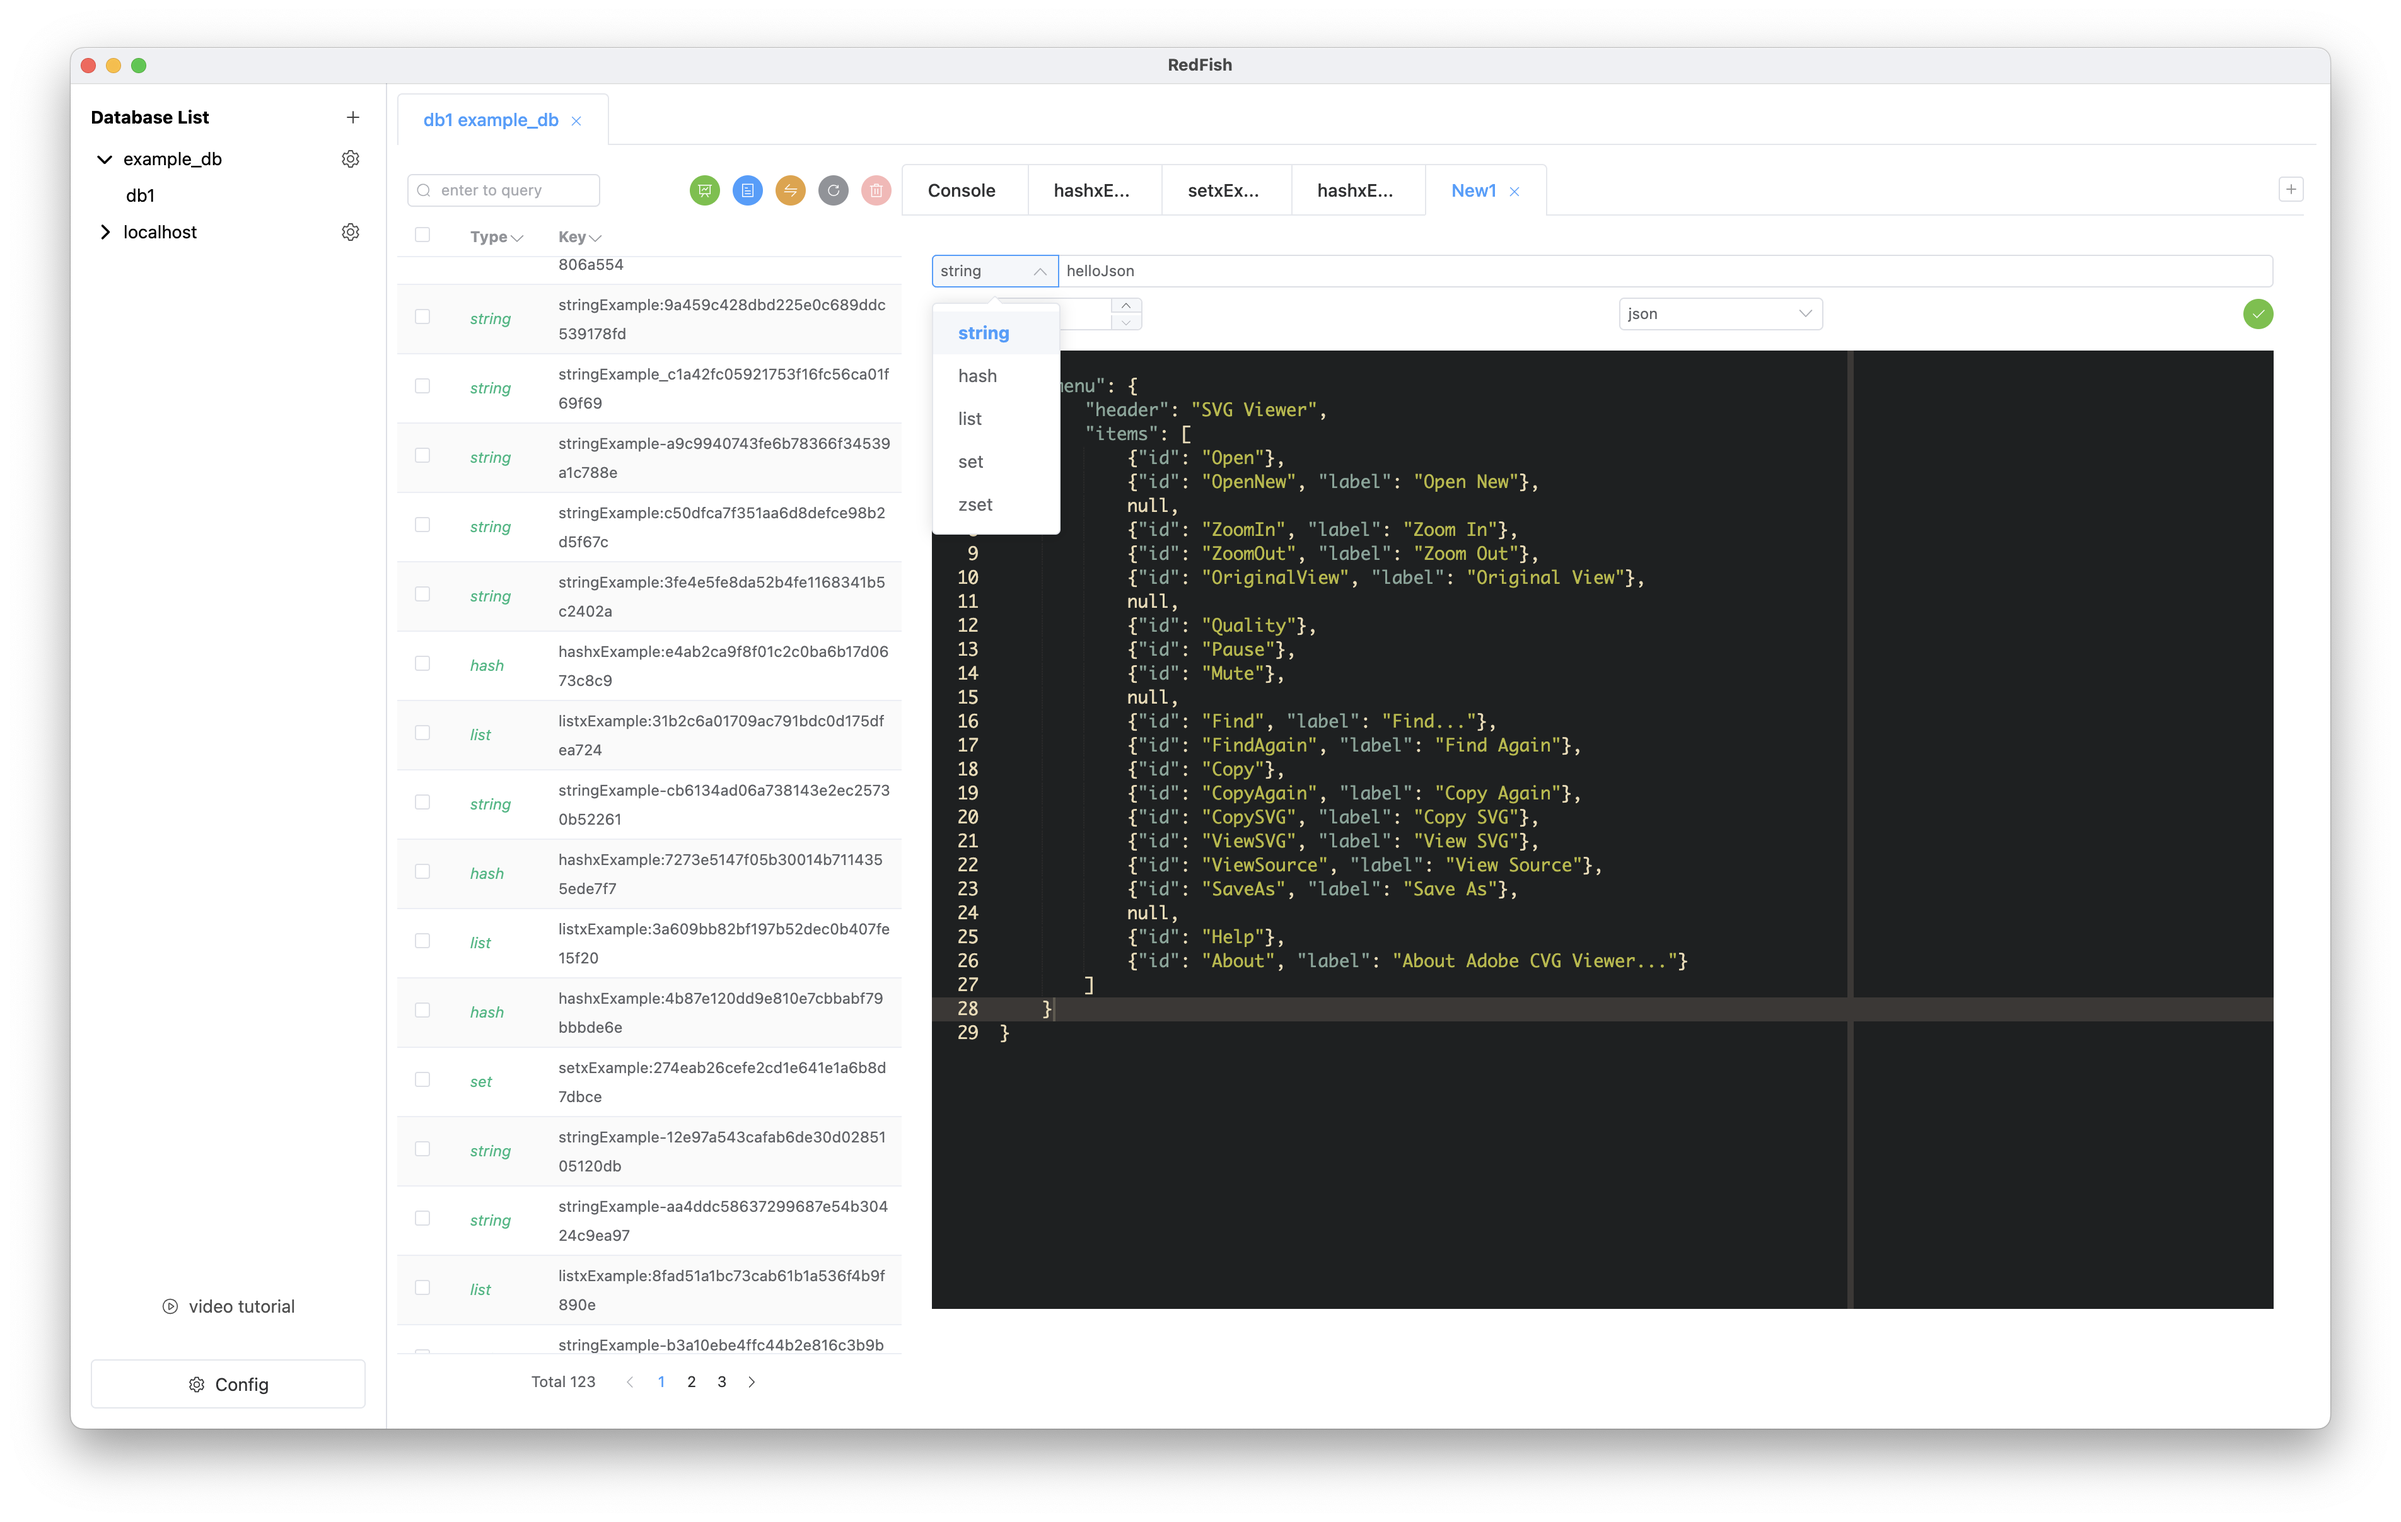
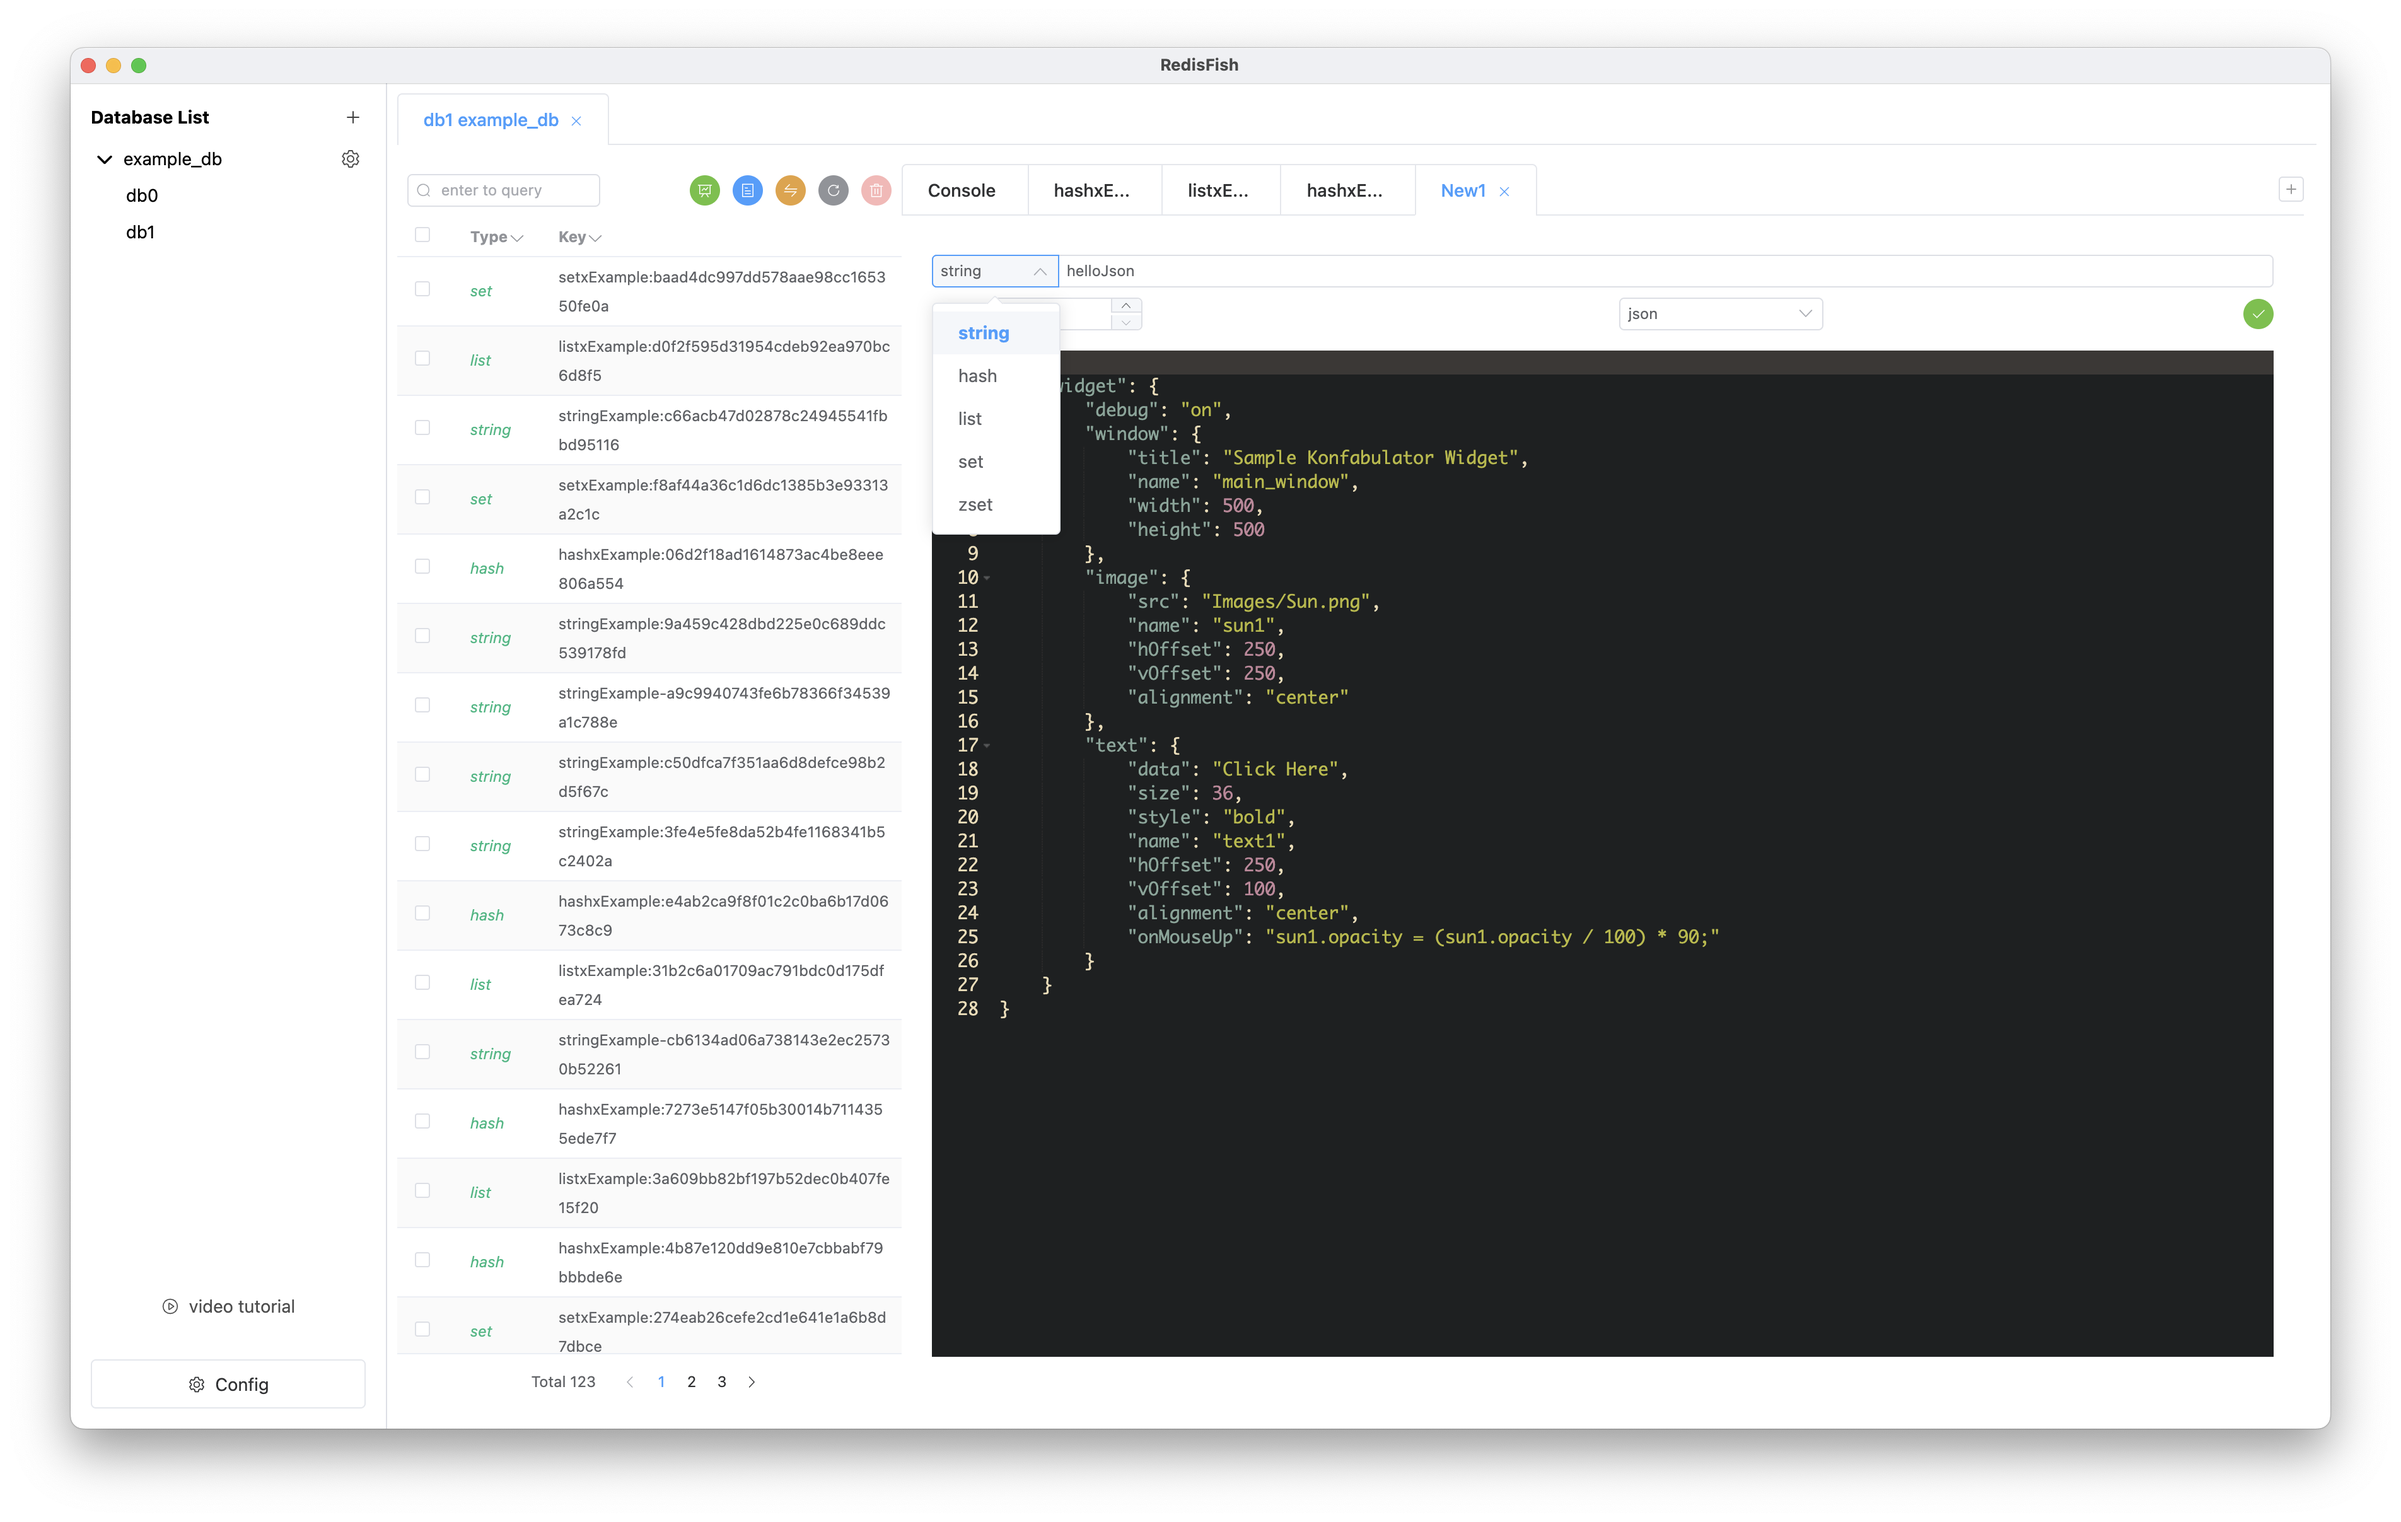
Update name, documentation, etc.

Changed region(s): [[0.1875, 0.1553, 0.9688, 0.901]]

diff --git a/src/views/keyMenu/group.vue b/src/views/keyMenu/group.vue
@@ -104,7 +104,7 @@
     </el-dialog>
 
     <!-- history log -->
-    <el-dialog v-model="dialogState.logShow" :title="t('keyMenu.delDialog.title')" width="60%" center top="10vh">
+    <el-dialog v-model="dialogState.logShow" :title="t('keyMenu.logDialog.title')" width="60%" center top="10vh">
       <history-log :server-tab="props.serverTab" v-if="dialogState.logShow" />
     </el-dialog>
   </div>
@@ -230,13 +230,15 @@ const handleGroupKeys = async (keys: string[]) => {
     }
   }
 
-  state.keysList.push({
-    label: 'other',
-    value: state.keysList.length,
-    count: otherGroupChildren.length,
-    isKey: false,
-    children: otherGroupChildren
-  })
+  if (otherGroupChildren.length) {
+    state.keysList.push({
+      label: 'other',
+      value: state.keysList.length,
+      count: otherGroupChildren.length,
+      isKey: false,
+      children: otherGroupChildren
+    })
+  }
 }
 const fetchData = async () => {
   await changeLoading(true)

diff --git a/vue.config.js b/vue.config.js
@@ -17,15 +17,15 @@ module.exports = {
       nodeIntegration: true,
       disableMainProcessTypescript: false,
       mainProcessTypeChecking: false,
-      productName: 'RedFish',
-      appId: 'com.kuari.RedFish',
+      productName: 'RedisFish',
+      appId: 'com.kuari.RedisFish',
       copyright: '© Kuari 2022',
       afterSign: 'build/notarize.js',
       publish: [
         {
           provider: 'github',
           owner: 'Kuari',
-          repo: 'RedFish',
+          repo: 'RedisFish',
           releaseType: 'draft'
         }
       ],
@@ -38,7 +38,7 @@ module.exports = {
         installerHeaderIcon: 'build/icon.ico',
         createDesktopShortcut: true,
         createStartMenuShortcut: true,
-        shortcutName: 'RedFish'
+        shortcutName: 'RedisFish'
       },
       dmg: {
         contents: [

diff --git a/src/views/config/about.vue b/src/views/config/about.vue
@@ -1,9 +1,9 @@
 <template>
   <div class="about-container flex flex-col justify-center items-center py-4">
     <img src="@/assets/icon.png" alt="logo" width="120" height="120" class="rounded-full shadow hover:shadow-xl" />
-    <div class="mt-4 text-2xl">RedFish</div>
+    <div class="mt-4 text-2xl">RedisFish</div>
     <div class="mt-2 text-gray-400">v {{ version }}</div>
-    <div class="mt-6"><el-link @click="jump">Github.com/Kuari/RedFish</el-link></div>
+    <div class="mt-6"><el-link @click="jump">Github.com/Kuari/RedisFish</el-link></div>
   </div>
 </template>
 
@@ -12,6 +12,6 @@ import { shell } from 'electron'
 import { version } from '../../../package.json'
 
 const jump = () => {
-  shell.openExternal('https://github.com/Kuari/RedFish')
+  shell.openExternal('https://github.com/Kuari/RedisFish')
 }
 </script>

diff --git a/build/notarize.js b/build/notarize.js
@@ -2,8 +2,8 @@ import { notarize } from 'electron-notarize'
 
 export const notarizing = async () => {
   return await notarize({
-    appPath: 'RedFish.app', // 应用的路径 xxx.app 结尾的
-    appBundleId: 'com.kuari.RedFish', // appid
+    appPath: 'RedisFish.app', // 应用的路径 xxx.app 结尾的
+    appBundleId: 'com.kuari.RedisFish', // appid
     appleId: process.env.AppleID, // 苹果开发者 id
     appleIdPassword: process.env.AppleIdPassword, // 应用专用密码
     ascProvider: process.env.AscProvider // 证书提供者

diff --git a/src/views/keyMenu/index.vue b/src/views/keyMenu/index.vue
@@ -97,7 +97,7 @@
     </el-dialog>
 
     <!-- history log -->
-    <el-dialog v-model="dialogState.logShow" :title="t('keyMenu.delDialog.title')" width="60%" center top="10vh">
+    <el-dialog v-model="dialogState.logShow" :title="t('keyMenu.logDialog.title')" width="60%" center top="10vh">
       <history-log :server-tab="props.serverTab" v-if="dialogState.logShow" />
     </el-dialog>
   </div>

diff --git a/src/views/historyLog/index.vue b/src/views/historyLog/index.vue
@@ -14,7 +14,7 @@
 
     <!-- btn -->
     <div class="flex justify-end pt-2">
-      <el-button type="success" @click="handleClearLog" :disabled="state.content.length === 0">{{ t('keyMenu.clearLog') }}</el-button>
+      <el-button type="success" @click="handleClearLog" :disabled="state.content.length === 0">{{ t('keyMenu.logDialog.clearLog') }}</el-button>
     </div>
   </div>
 </template>

diff --git a/src/views/config/keyMenuStatus.vue b/src/views/config/keyMenuStatus.vue
@@ -14,7 +14,7 @@ import { useI18n } from 'vue-i18n'
 import { useStore } from 'vuex'
 
 const { t } = useI18n()
-const radio = ref(1)
+const radio = ref(2)
 
 const store = useStore()
 
@@ -23,6 +23,6 @@ const handleChange = async (label: number) => {
 }
 
 onMounted(() => {
-  radio.value = store.getters.keyMenuStatus || 1
+  radio.value = store.getters.keyMenuStatus || 2
 })
 </script>

diff --git a/public/index.html b/public/index.html
@@ -4,7 +4,7 @@
     <meta charset="utf-8">
     <meta http-equiv="X-UA-Compatible" content="IE=edge">
     <meta name="viewport" content="width=device-width,initial-scale=1.0">
-    <title>RedFish</title>
+    <title>RedisFish</title>
     <link rel="stylesheet" href="css-vars.css">
   </head>
   <body>

diff --git a/src/views/serverTab/index.vue b/src/views/serverTab/index.vue
@@ -43,7 +43,6 @@ const removeTab = (targetName: string) => {
 const data: ComputedRef<serverTabType[]> = computed(() => store.getters.serverTabList)
 
 const keyMenuStatus = computed(() => {
-  console.log(store.getters.keyMenuStatus)
   return store.getters.keyMenuStatus === 1
 })
 

diff --git a/src/views/videoTutorial/index.vue b/src/views/videoTutorial/index.vue
@@ -18,7 +18,6 @@ const { t, locale } = useI18n()
 const store = useStore()
 
 const jump = () => {
-  console.log(locale.value)
   if (locale.value === 'zh_CN') {
     shell.openExternal('https://www.bilibili.com/video/BV1Wf4y1d7JZ?share_source=copy_web')
   } else {

diff --git a/src/views/newKeyValue/zsetType.vue b/src/views/newKeyValue/zsetType.vue
@@ -113,7 +113,6 @@ const handleRowEdit = (id: number, label: string) => {
   setTimeout(() => {
     const dom = document.getElementById(`z-set-row-input-${id}`)
     if (dom) {
-      console.log('dom : ', dom)
       dom.focus()
     }
   }, 100)

diff --git a/src/views/valueContent/zsetType.vue b/src/views/valueContent/zsetType.vue
@@ -169,7 +169,6 @@ const handleRowEdit = (id: number, label: string) => {
   setTimeout(() => {
     const dom = document.getElementById(`z-set-row-input-${id}`)
     if (dom) {
-      console.log('dom : ', dom)
       dom.focus()
     }
   }, 100)
